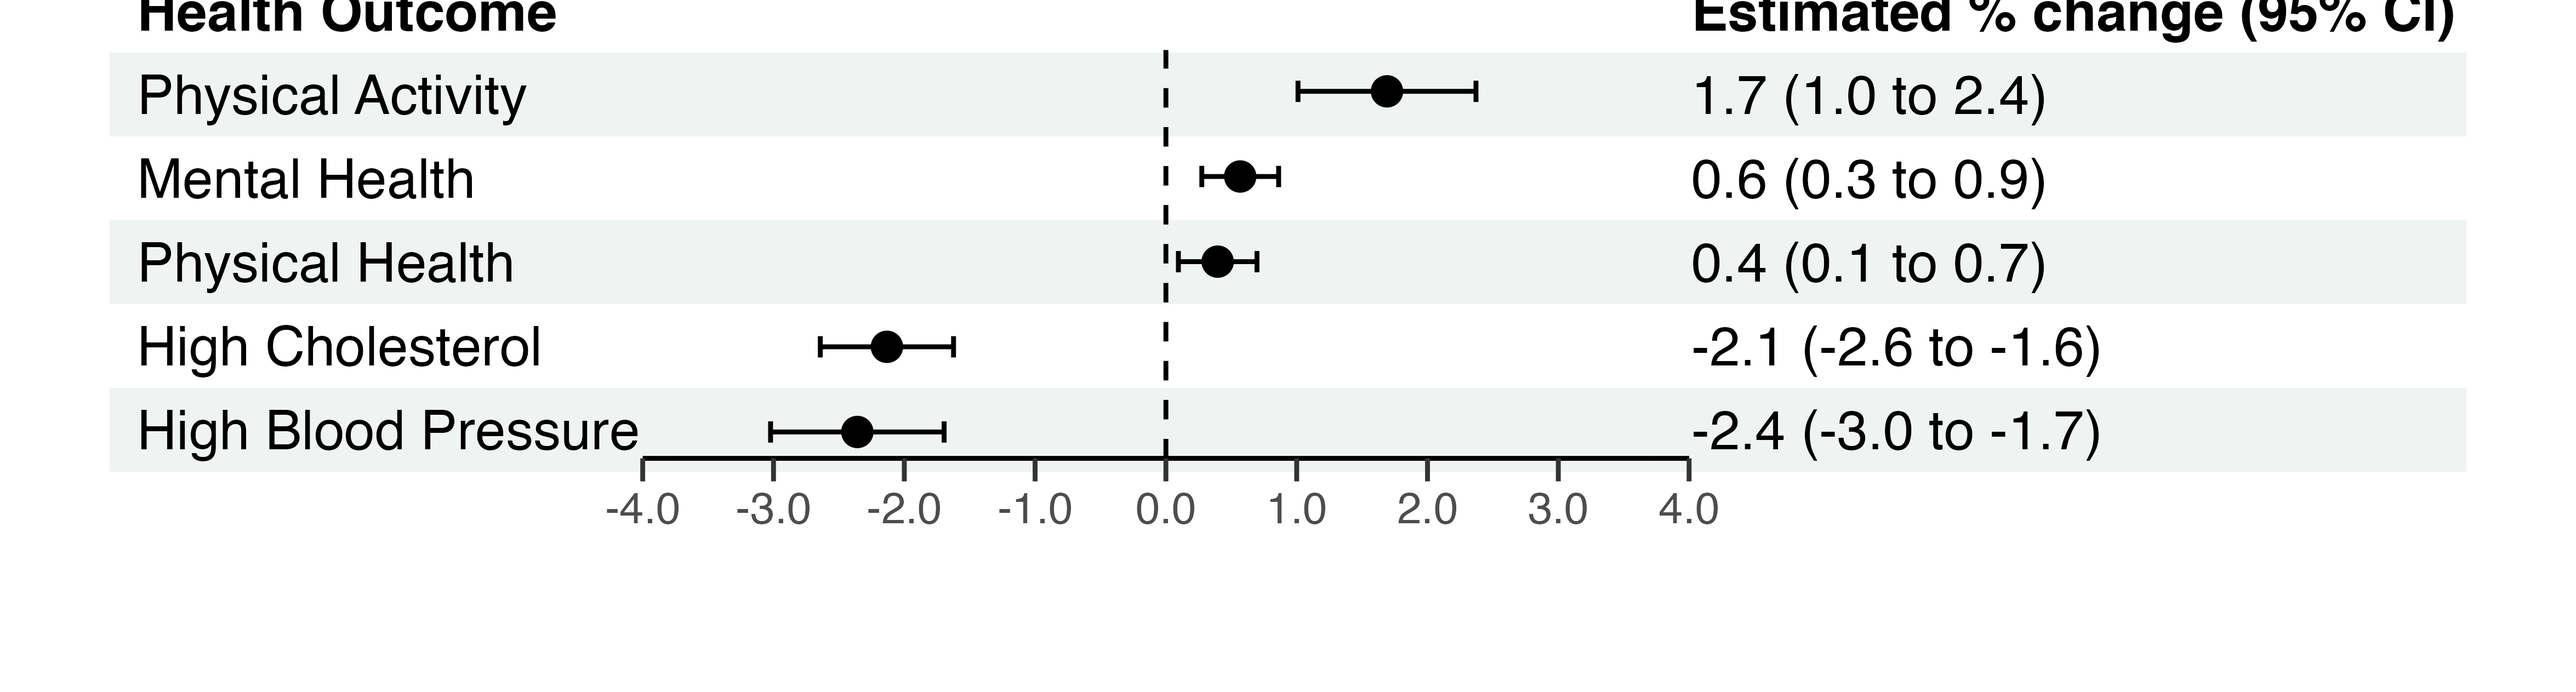
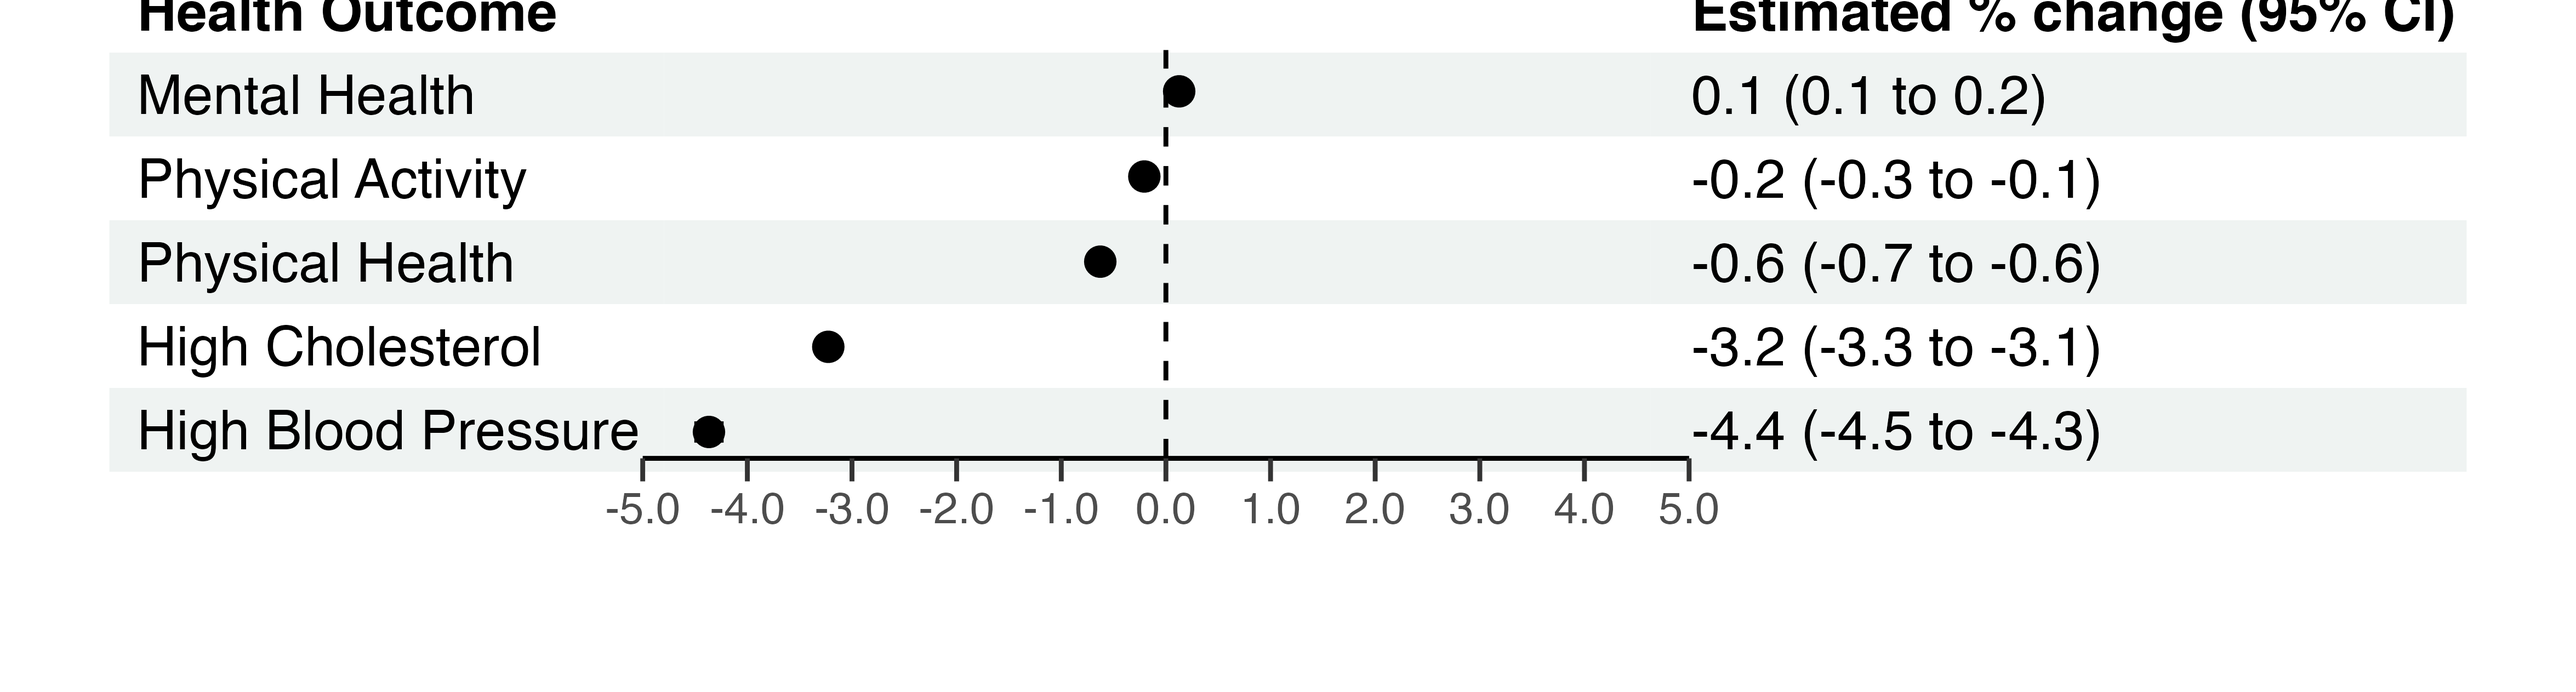
Sophie: Trying to figure out forest plot for `regression.Rmd`

diff --git a/regression.html b/regression.html
@@ -268,7 +268,7 @@ $(document).ready(function () {
   </a>
   <ul class="dropdown-menu" role="menu">
     <li>
-      <a href="Testing.html">Data Cleaning</a>
+      <a href="cleaning.html">Data Cleaning</a>
     </li>
     <li>
       <a href="explore.html">Exploratory Analysis</a>
@@ -323,7 +323,7 @@ $(document).ready(function () {
   </a>
 </li>
 <li>
-  <a href="fun.html">
+  <a href="Fun.html">
     <span class="fa fa-smile-o"></span>
      
     Fun Facts
@@ -997,6 +997,58 @@ increase in walkability is associated with an increase for prevalence of
 poor mental health, but this could be due to unaccounted for confounding
 from density of space and urbanicity that comes with more walkable
 spaces.</p>
+</div>
+<div id="forest-plot" class="section level3">
+<h3>Forest Plot</h3>
+<p>Below, we create a forest plot to more visually display the
+difference in prevalence for our various health outcomes compared to
+less walkable places:</p>
+<pre class="r"><code>devtools::install_github(&quot;rdboyes/forester&quot;)</code></pre>
+<pre><code>## Skipping install of &#39;forester&#39; from a github remote, the SHA1 (a9ad7c45) has not changed since last install.
+##   Use `force = TRUE` to force installation</code></pre>
+<pre class="r"><code>library(grid)
+library(forester)</code></pre>
+<pre class="r"><code>forestplot_df = 
+  chol_margin %&gt;% 
+  filter(grepl(&#39;walk&#39;, term)) %&gt;% 
+  rbind(mental_margin[1,]) %&gt;% 
+  rbind(lpa_margin[1,]) %&gt;% 
+  rbind(physical_margin[1,]) %&gt;% 
+  rbind(bloodpres_margin[1,]) %&gt;% 
+  mutate(
+    outcome = c(&quot;High Cholesterol&quot;, &quot;Mental Health&quot;, &quot;Physical Activity&quot;, &quot;Physical Health&quot;, &quot;High Blood Pressure&quot;),
+    pct = estimate*100,
+    pct.conf.low = conf.low*100,
+    pct.conf.high = conf.high*100
+  ) %&gt;% 
+  dplyr::select(outcome, pct, pct.conf.low, pct.conf.high, p.value) %&gt;% 
+  arrange(desc(pct)) %&gt;%
+  janitor::clean_names() %&gt;%
+  rename(&quot;Health Outcome&quot; = outcome )
+
+forestplot_df</code></pre>
+<pre><code>## # A tibble: 5 × 5
+##   `Health Outcome`       pct pct_conf_low pct_conf_high   p_value
+##   &lt;chr&gt;                &lt;dbl&gt;        &lt;dbl&gt;         &lt;dbl&gt;     &lt;dbl&gt;
+## 1 Mental Health        0.127       0.0869         0.167 4.66e- 10
+## 2 Physical Activity   -0.206      -0.300         -0.112 1.75e-  5
+## 3 Physical Health     -0.627      -0.667         -0.587 6.51e-209
+## 4 High Cholesterol    -3.23       -3.32          -3.13  0        
+## 5 High Blood Pressure -4.37       -4.48          -4.25  0</code></pre>
+<pre class="r"><code>forest_plot =
+  forester(left_side_data = forestplot_df[&quot;Health Outcome&quot;],
+           estimate = forestplot_df$pct,
+           ci_low = forestplot_df$pct_conf_low,
+           ci_high = forestplot_df$pct_conf_high,
+           xlim = c(-5, 5),
+           estimate_col_name = &quot;Estimated % change (95% CI)&quot;,
+           font_family = &quot;sans&quot;,
+           display = FALSE,
+           null_line_at = 0,
+           xbreaks = c(-5, -4, -3, -2, -1, 0, 1, 2, 3, 4, 5),
+           file_path = here::here(&quot;./images/forest_plot.png&quot;))</code></pre>
+<p><br></p>
+<p><img src="images/forest_plot.png" /></p>
 </div>
 
 
